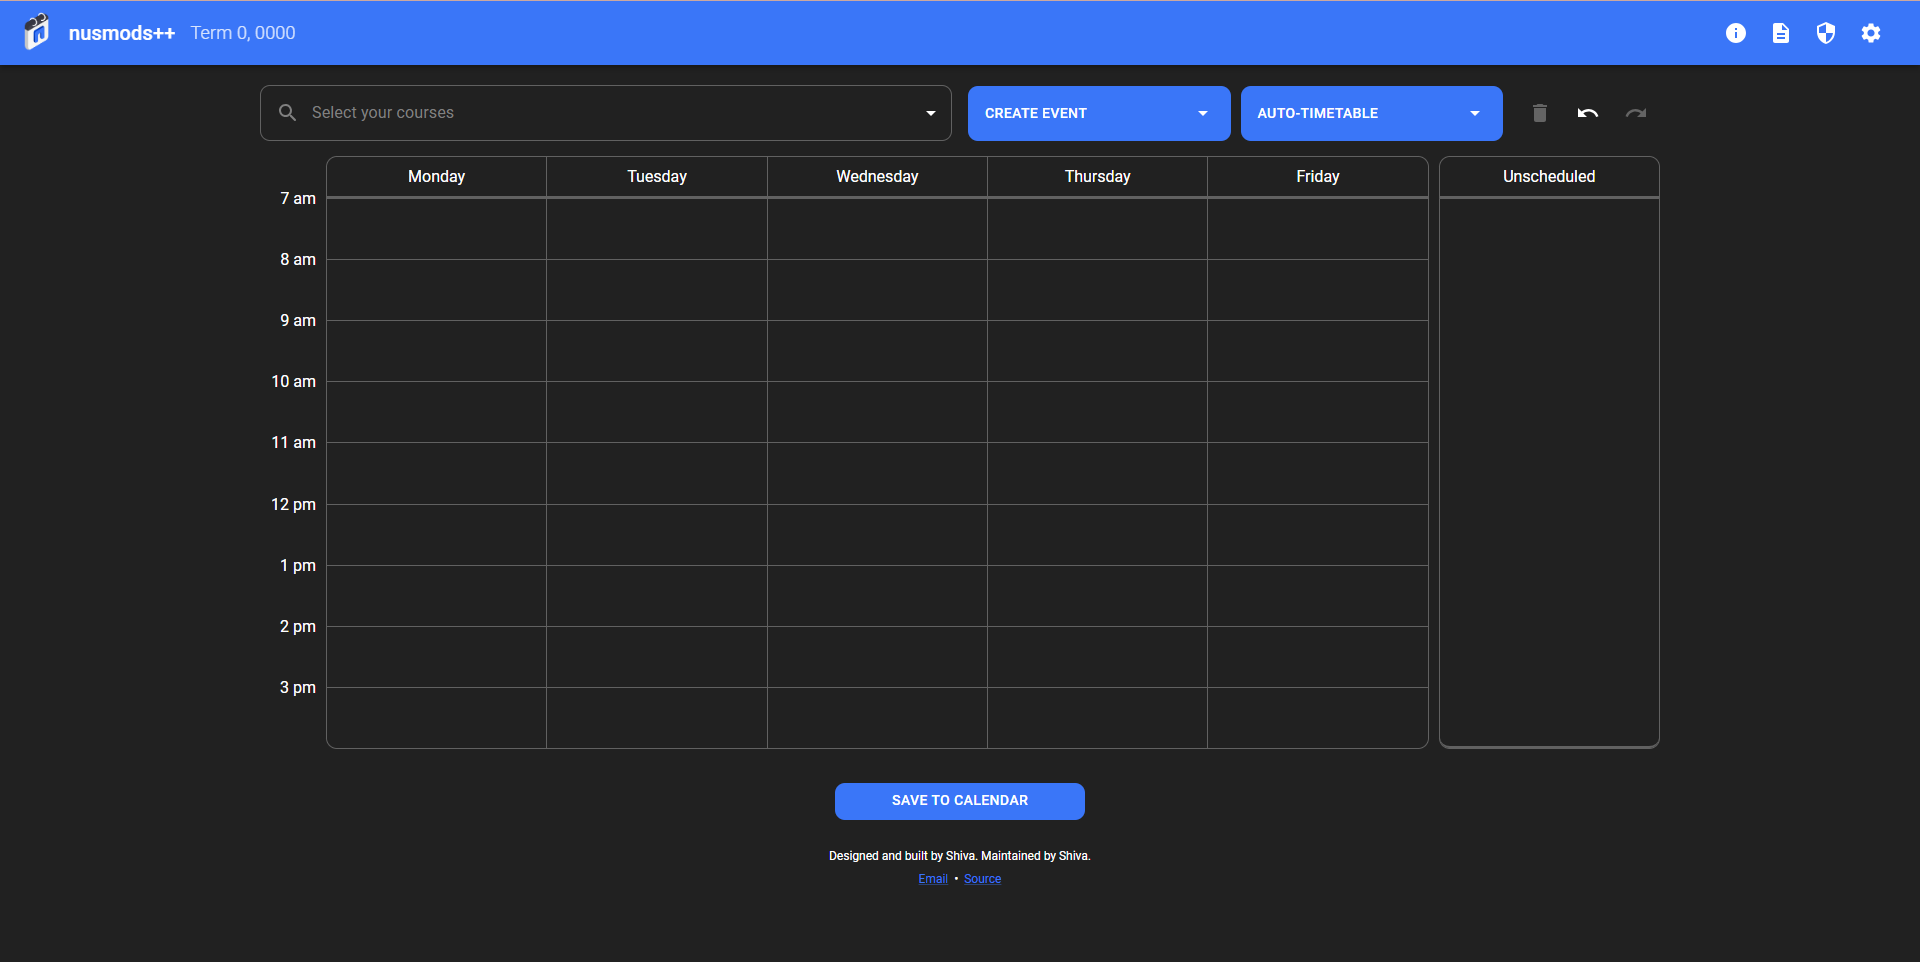
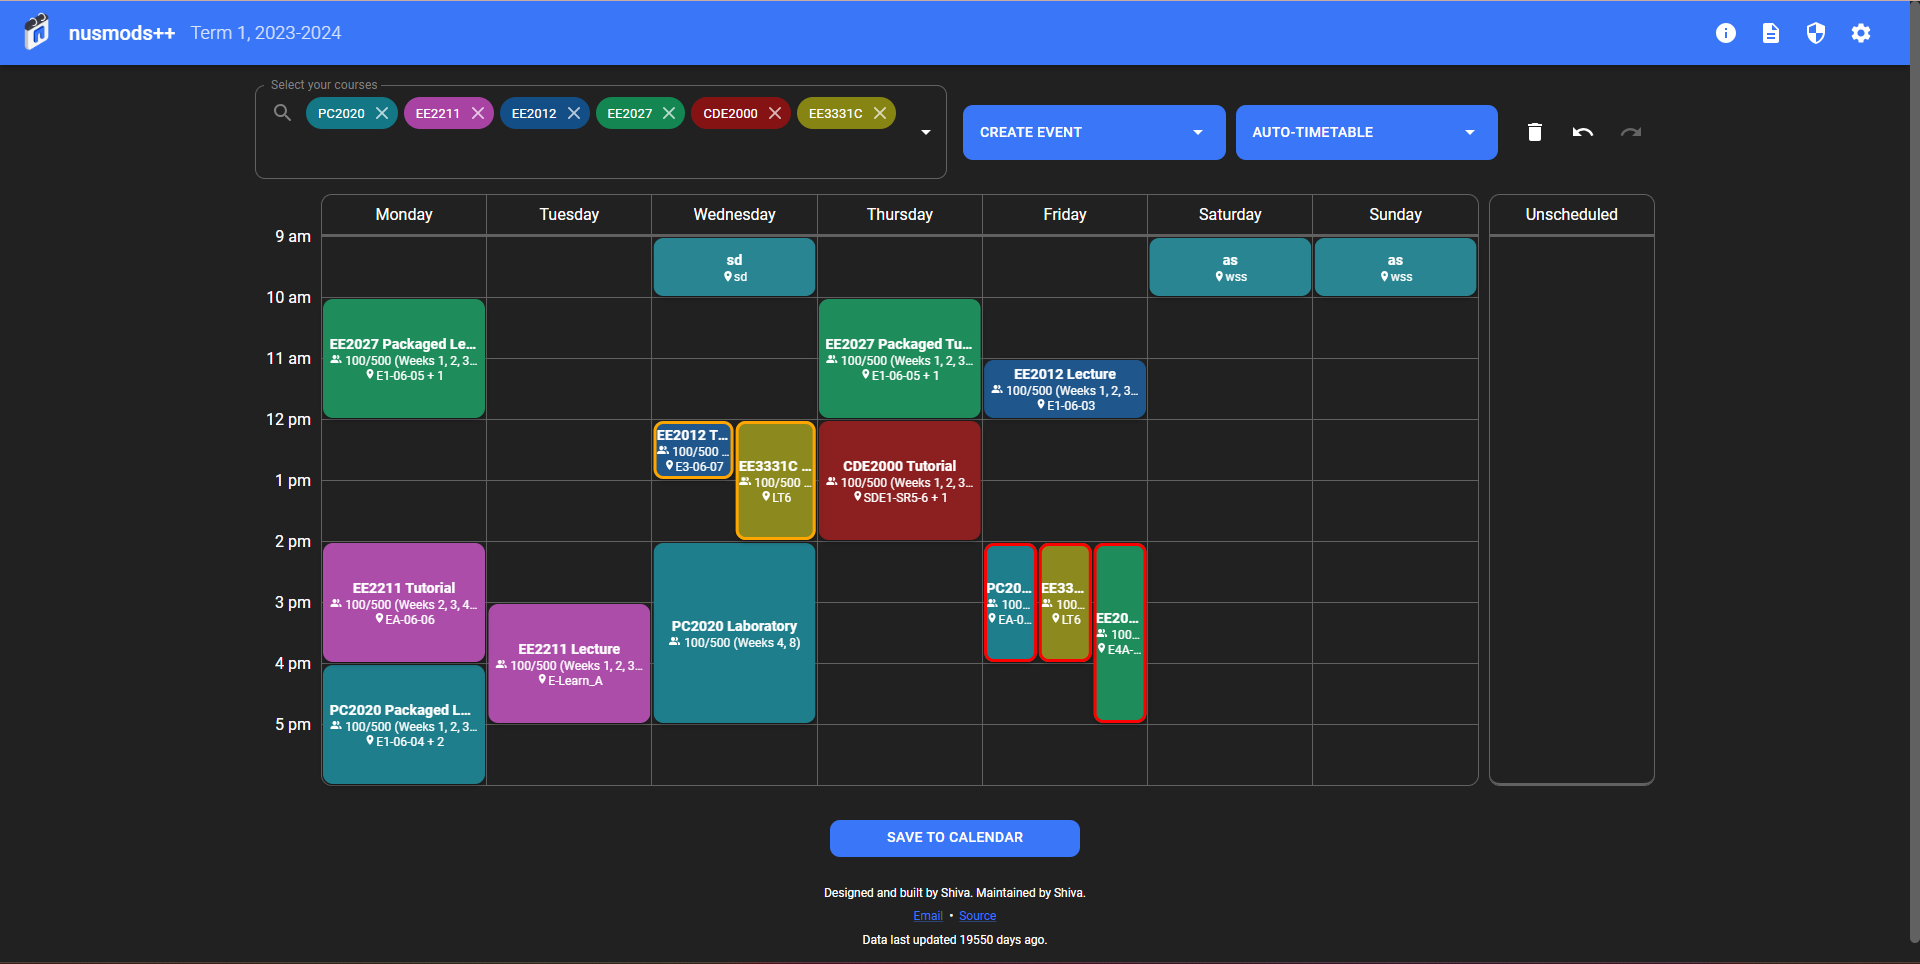
Finally, can import all modules and search modules, Done

diff --git a/client/src/api/getCourseInfo.ts b/client/src/api/getCourseInfo.ts
@@ -79,6 +79,12 @@ const sortUnique = (arr: number[]): number[] => {
   return ret;
 };
 
+const convertTime = (timeStr: string): string => {
+  const hour = timeStr.slice(0, 2);
+  const minute = timeStr.slice(2, 4);
+  return `${hour}:${minute}`;
+};
+
 /**
  * Fetches the information of a specified course
  *
@@ -118,54 +124,86 @@ const getCourseInfo = async (
       }
     }
 
-    const json: DbCourse = await data.json();
+    const json: any = await data.json();
+
+    console.log(json); // Used to debug
+    // console.log(json.semesterData[0].timetable); // Used to debug
+    
+    let _classes:any = [];
+    
+    json.semesterData[0].timetable.forEach((element: any) => {
+      const _class:any = {
+        activity: element.lessonType, // string
+          times: [
+            {
+              time: {
+                start: convertTime(element.startTime),
+                end: convertTime(element.endTime),
+              },
+              day: element.day.slice(0, 3), // string
+              location: element.venue, // string
+              weeks: element.weeks.toString(), // "1, 2, 3, 4, 5, 6, 7, 8, 9, 10, 11, 12, 13"
+            },
+          ], // array of DbTimes
+          status: "Open", // 'Open' | 'Full' | 'On Hold'
+          courseEnrolment: {
+            enrolments: 100, // fake value
+            capacity: 500,
+          }, // {enrolments, capacity}
+          section: json.department, // string
+      };
+      _classes.push(_class);
+    });
+    
+    console.log(_classes);
 
     // work on new code
     const parsed_json: DbCourse = {
-      courseCode: "EE2211",
-      name: "Machine Learning",
-      classes: [
-        {
-          activity: "Lecture", // string
-          times: [
-            {
-              time: {
-                start: "12:00",
-                end: "14:00",
-              },
-              day: "Tue",
-              location: "Home",
-              weeks: "1-5, 7-10",
-            },
-          ], // array of DbTimes
-          status: "Open", // 'Open' | 'Full' | 'On Hold'
-          courseEnrolment: {
-            enrolments: 100,
-            capacity: 500,
-          }, // {enrolments, capacity}
-          section: "Electrical Engineering", // string
-        },
-        {
-          activity: "Lecture", // string
-          times: [
-            {
-              time: {
-                start: "12:00",
-                end: "14:00",
-              },
-              day: "Wed",
-              location: "E4-05",
-              weeks: "1-5, 7-10",
-            },
-          ], // array of DbTimes
-          status: "Open", // 'Open' | 'Full' | 'On Hold'
-          courseEnrolment: {
-            enrolments: 100,
-            capacity: 500,
-          }, // {enrolments, capacity}
-          section: "Electrical Engineering", // string
-        }
-      ],
+      courseCode: json.moduleCode, // "EE2211"
+      name: json.title, // "Introduction to Machine Learning"
+      // classes: [
+        // {
+        //   activity: "Tutorial", // string
+        //   times: [
+        //     {
+        //       time: {
+        //         start: "12:00",
+        //         end: "14:00",
+        //       },
+        //       day: "Tue",
+        //       location: "Home",
+        //       weeks: "1-5, 7-10",
+        //     },
+        //   ], // array of DbTimes
+        //   status: "Open", // 'Open' | 'Full' | 'On Hold'
+        //   courseEnrolment: {
+        //     enrolments: 100,
+        //     capacity: 500,
+        //   }, // {enrolments, capacity}
+        //   section: "Electrical Engineering", // string
+        // },
+        // {
+        //   activity: "Lecture", // string
+        //   times: [
+        //     {
+        //       time: {
+        //         start: "12:00",
+        //         end: "14:00",
+        //       },
+        //       day: "Wed",
+        //       location: "E4-05",
+        //       weeks: "1-5, 7-10",
+        //     },
+        //   ], // array of DbTimes
+        //   status: "Open", // 'Open' | 'Full' | 'On Hold'
+        //   courseEnrolment: {
+        //     enrolments: 100,
+        //     capacity: 500,
+        //   }, // {enrolments, capacity}
+        //   section: "Electrical Engineering", // string
+        // }
+      // ],
+      classes: _classes,
     };
 
     // OLD CODE

diff --git a/client/src/constants/timetable.ts b/client/src/constants/timetable.ts
@@ -156,7 +156,8 @@ export const rowHeight = 60;
 export const classMargin = 1;
 export const headerPadding = 10;
 
-export const maxAddedCourses = 8;
+// https://wiki.nus.edu.sg/display/eng/Workload+and+Other+Policies
+export const maxAddedCourses = 20; // seriously, who takes 20 modules in a semester? bruh HAHAHAHAHA
 
 export const daysLong = ['Monday', 'Tuesday', 'Wednesday', 'Thursday', 'Friday', 'Saturday', 'Sunday'];
 export const daysShort = ['Mo', 'Tu', 'We', 'Th', 'Fr', 'Sa', 'Su'];
